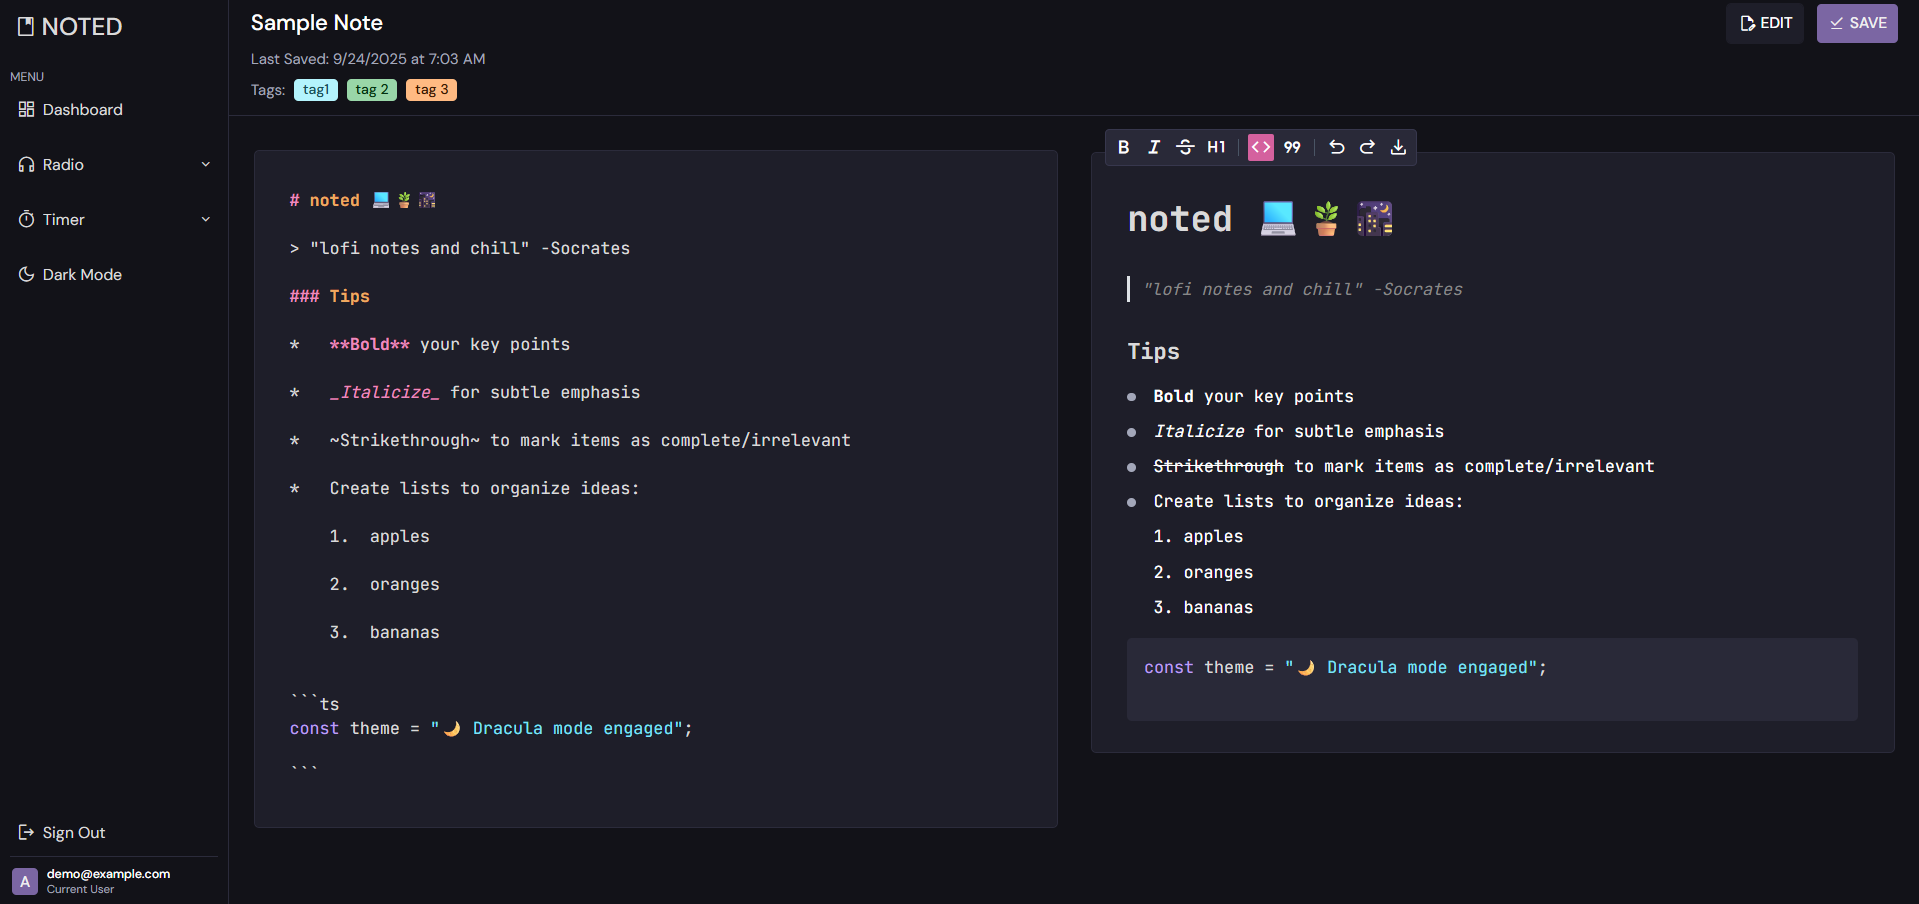
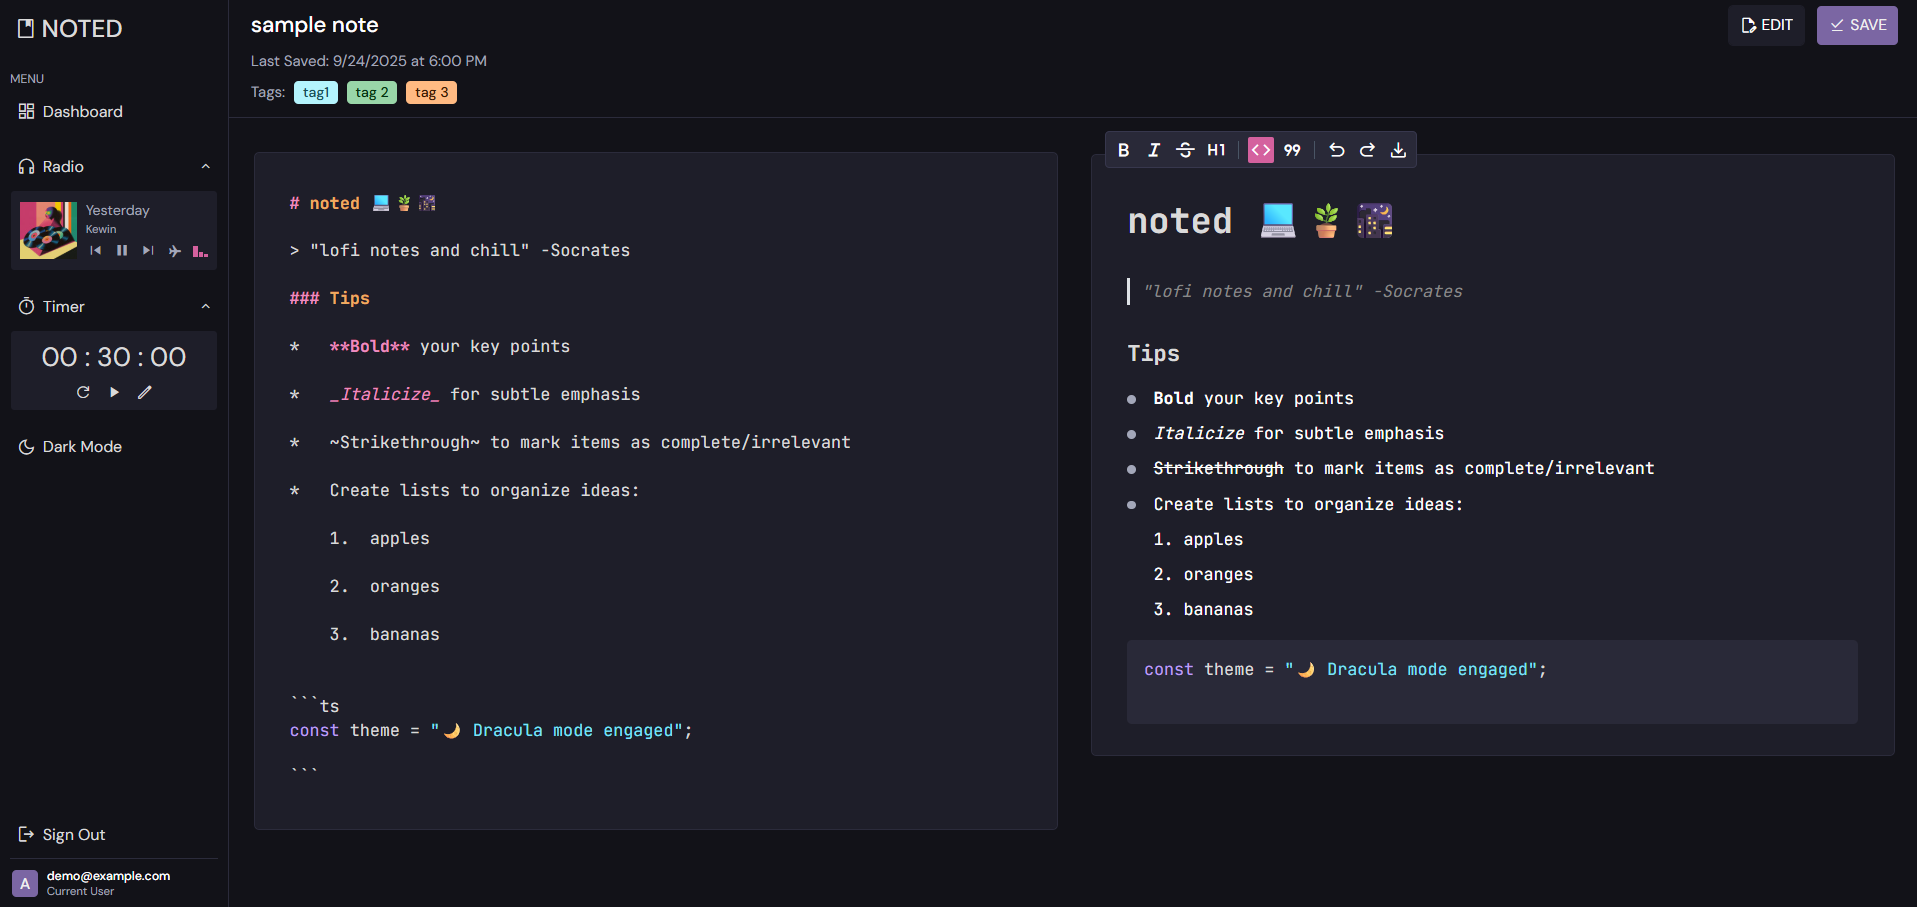
added assets

diff --git a/src/components/Timer.tsx b/src/components/Timer.tsx
@@ -31,9 +31,9 @@ type TimerFormState = {
 export const TimerWidget = () => {   
     const intervalRef = useRef<number | null>(null);
     const [timer, setTimer] = useState<TimerState>({ 
-        totalSeconds: 5, 
-        secondsLeft: 5, 
-        fmtedTime: secondsToHMS(5), 
+        totalSeconds: 1800, 
+        secondsLeft: 1800, 
+        fmtedTime: secondsToHMS(1800), 
         isActive: false 
     }); 
     const [timerForm, setTimerForm] = useState<TimerFormState>({ timer: null, isOpen: false });  
@@ -64,7 +64,7 @@ export const TimerWidget = () => {
     }, [timer]); 
      
     const setNewTimer = (newTime: TimeValues) => {  
-        const seconds = Number((+newTime.hrs * 3600) + (+newTime.mins * 60) + newTime.secs);
+        const seconds =  (Number(newTime.hrs) * 3600) + (Number(newTime.mins) * 60) + Number(newTime.secs); 
         setTimer({ 
             totalSeconds: seconds, 
             secondsLeft: seconds, 

diff --git a/src/components/EmptyState.tsx b/src/components/EmptyState.tsx
@@ -9,14 +9,14 @@ export const EmptyState = ({ icon, title, subtitle, onSubtitleClick }: EmptyStat
   <div className="flex flex-col items-center gap-1 mx-auto mt-12">
     <span  
       className="material-symbols-outlined text-[var(--muted-foreground)] bg-[var(--modal-border)] p-2.5 rounded-lg"
-      style={{ fontVariationSettings: "'FILL' 1", fontSize: "var(--text-4xl)" }}
+      style={{ fontVariationSettings: "'FILL' 1", fontSize: "3rem" }}
     >
       {icon}
     </span> 
-    <p className="text-lg font-semibold mt-3"> {title} </p>
+    <p className="text-xl font-semibold mt-3"> {title} </p>
     <p 
       onClick={onSubtitleClick} 
-      className="text-xs text-[var(--muted-foreground)] hover:underline cursor-pointer"
+      className="text-[0.8rem] text-[var(--muted-foreground)] hover:underline cursor-pointer"
     >
       {subtitle}
     </p>

diff --git a/src/components/forms/TimerForm.tsx b/src/components/forms/TimerForm.tsx
@@ -56,7 +56,7 @@ export const TimerForm  = ({ timer, onCancel, onSubmit }: TimerFormProps) => {
     
     const handleSubmit = (e: React.FormEvent<HTMLFormElement>) => {
         e.preventDefault();   
-        if (isValidTime(formData)) {
+        if (isValidTime(formData)) { 
             onSubmit(formData);
         } else {
             setFormErr("Invalid Time");  

diff --git a/src/components/MusicPlayer.tsx b/src/components/MusicPlayer.tsx
@@ -11,7 +11,7 @@ const WAVEFORM_BARS = [
 ];
 
 const WaveForm = ({ musicStopped }: { musicStopped: boolean }) => ( 
-    <div className="flex flex-row items-end gap-0.25 ml-auto"> 
+    <div className="flex flex-row items-end gap-0.25 ml-auto pb-0.75"> 
         { WAVEFORM_BARS.map(bar => (
             <div 
                 key={bar.minHeight} 
